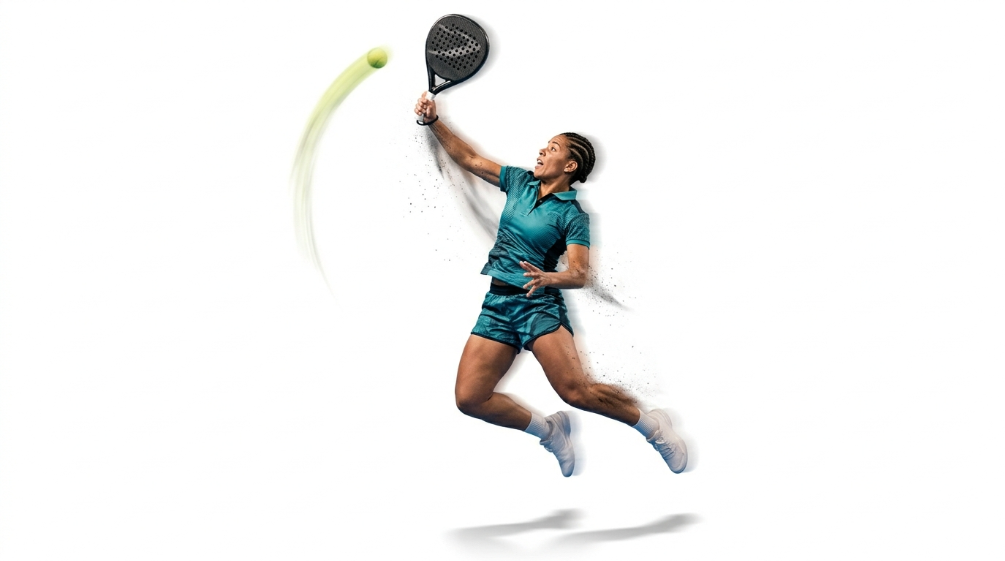
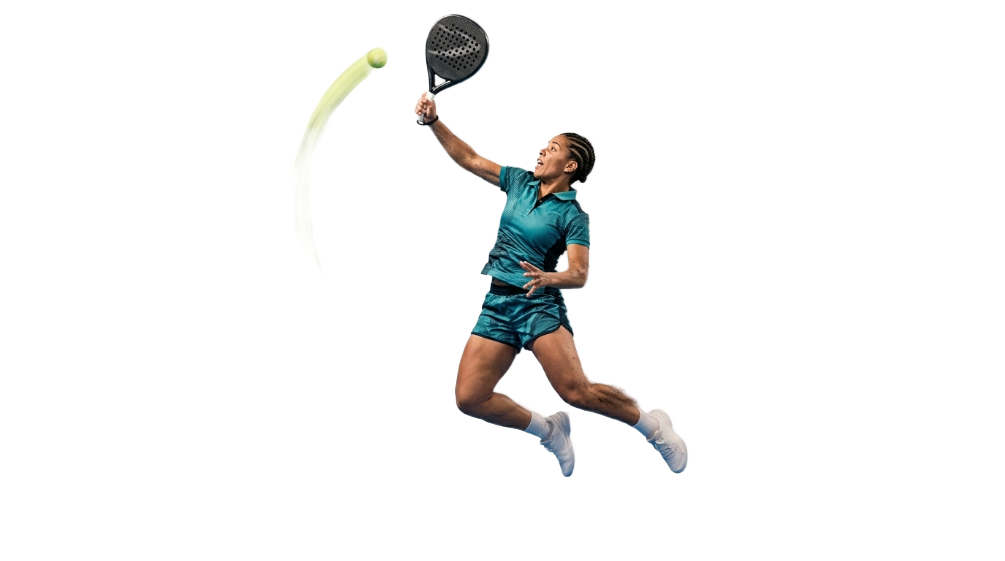
Switch hero player and bento card 5 player images

diff --git a/index.html b/index.html
@@ -70,7 +70,7 @@
 
       <!-- 5. Dynamic Player Cutout Layer - Compare per ULTIMO (t = 0.95s) -->
       <div class="hero-player-layer">
-        <img src="assets/final man img.png" alt="Giocatore KINETIK in azione sul campo da padel" class="hero-player-img">
+        <img src="assets/bento-player.png" alt="Giocatrice KINETIK in azione sul campo da padel" class="hero-player-img">
       </div>
 
       <!-- 4. Bottom Headline (t = 0.75s) -->
@@ -156,11 +156,11 @@
           </svg>
         </article>
 
-        <!-- Card 5: Completamente a destra (Bento Player in Smash: Community & Tornei) -->
+        <!-- Card 5: Completamente a destra (Giocatore Bento: Community & Tornei) -->
         <article class="bento-card bento-card-5 reveal-item">
-          <!-- Giocatrice Cutout in Smash Dinamico -->
+          <!-- Giocatore Cutout nel Bento Grid -->
           <div class="bento-player-visual-wrap" aria-hidden="true">
-            <img src="assets/bento-player.png" alt="Giocatrice KINETIK in azione padel" class="bento-player-img">
+            <img src="assets/final man img.png" alt="Giocatore KINETIK Community &amp; Tornei" class="bento-player-img">
           </div>
 
           <!-- Contenuto Metriche e Community in basso -->
